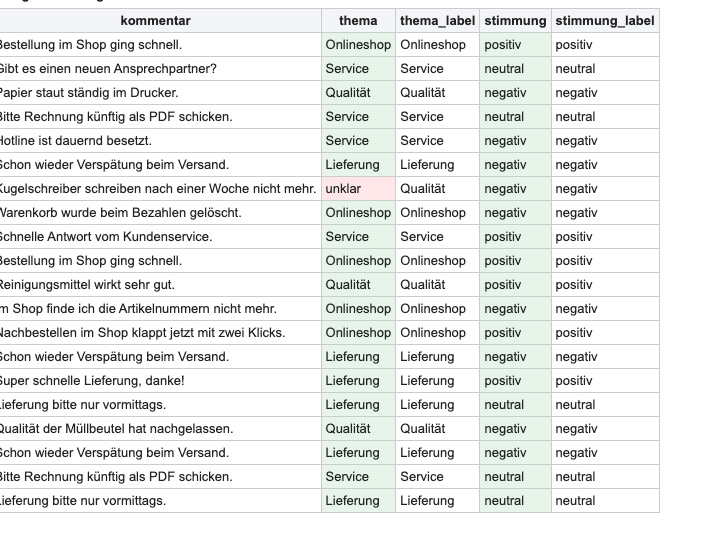
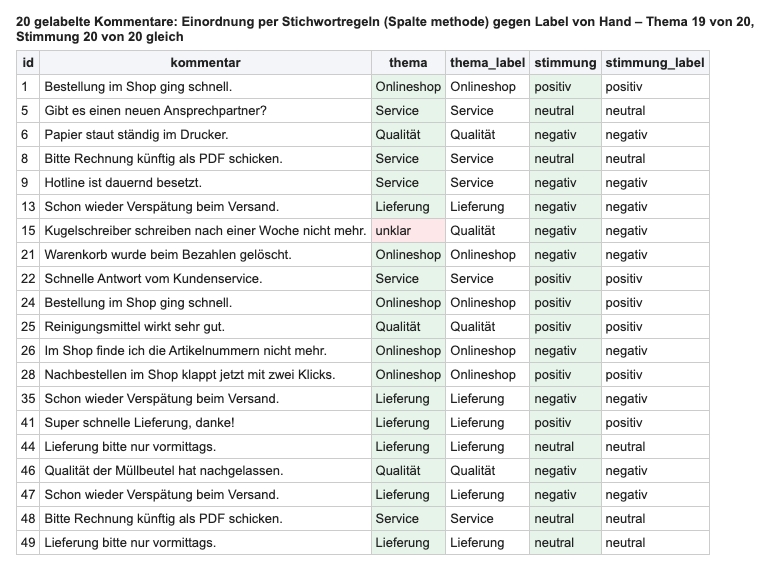
✨ KI in der Datenanalyse: Theorie an Folien angeglichen, Trefferquote-Bild neu

diff --git a/m01-ai-analysis-basics/l01-ai-landscape/l01-ai-landscape-thx.md b/m01-ai-analysis-basics/l01-ai-landscape/l01-ai-landscape-thx.md
@@ -54,14 +54,26 @@ Wenn sie im Juli jedes Jahr Alarm schlägt (Sommerloch) und den echten Fehler im
 | --- | --- | --- |
 | 1956 | Dartmouth-Workshop: der Begriff „Artificial Intelligence" wird zum Forschungsfeld | McCarthy et al., Antrag vom 31.08.1955 (jmc.stanford.edu/articles/dartmouth/dartmouth.pdf) |
 | 1959 | Arthur Samuel prägt „Machine Learning": sein Dame-Programm lernt aus Partien | Samuel, IBM Journal of Research and Development 3(3), 1959 |
+| 2008 | Wes McKinney beginnt pandas, die Tabellen-Bibliothek für Python; Ende 2009 wird sie Open Source | pandas.pydata.org/about, abgerufen am 16.11.2026 |
 | 2012 | AlexNet gewinnt den ImageNet-Wettbewerb deutlich: Durchbruch für Deep Learning | Krizhevsky, Sutskever, Hinton, NeurIPS 2012 (papers.nips.cc) |
 | 2017 | Die Transformer-Architektur erscheint, Grundlage heutiger Sprachmodelle | Vaswani et al., „Attention Is All You Need" (arxiv.org/abs/1706.03762) |
 | 30.11.2022 | OpenAI veröffentlicht ChatGPT; Sprachmodelle werden Alltagswerkzeug | openai.com/index/chatgpt |
 | 2024 → 2026 | Anteil der Unternehmen in Deutschland mit KI-Einsatz: 20 % (2024, Destatis, ab 10 Beschäftigten); 57 % (2026, Bitkom-Befragung, ab 20 Beschäftigten) | destatis.de, Pressemitteilung 444 vom 25.11.2024; bitkom.org, Presseinformation vom 14.09.2026 |
 
-Bekannte Beispiele: Absatzprognosen im Handel, Betrugserkennung bei Kartenzahlungen (Anomalien), Kundensegmente im Marketing, KI-Assistenten in Excel, Power BI und VS Code, die Formeln, Code und Kommentare vorschlagen.
+Wo es heute steht: Der Anteil der Unternehmen in Deutschland (ab 10 Beschäftigten), die KI nutzen, stieg von 11 % (2021) über 12 % (2023) und 20 % (2024) auf 26 % (2025). Von den KI-nutzenden Unternehmen setzten 2025 23 % maschinelles Lernen ein, 52 % werteten Texte aus (Text Mining). _Quelle: Statistisches Bundesamt (Destatis), Pressemitteilung Nr. 444 vom 25.11.2024 und Tabelle „Unternehmen, die künstliche Intelligenz nutzen“, Stand 24.11.2025 (destatis.de), abgerufen am 16.11.2026._
 
-Einsatz im Controlling und Reporting: Lieferdateien prüfen, Monatsberichte automatisieren, Umsatz hochrechnen, Ausreißer melden, Freitext-Feedback auszählen, Abweichungen in Worte fassen. Die beiden Unternehmenszahlen stammen aus unterschiedlichen Erhebungen und sind nicht direkt vergleichbar (Stand: 15.11.2026).
+Bekannte Beispiele: Absatzprognosen im Handel, Betrugserkennung bei Kartenzahlungen (Anomalien), Kundensegmente im Marketing, KI-Assistenten in Excel, Power BI und VS Code, die Formeln, Code und Kommentare vorschlagen, und KI-Chats mit Datei-Upload wie ChatGPT oder Claude, die Fragen zu einer Tabelle beantworten.
+
+Einsatz im Controlling und Reporting: Lieferdateien prüfen, Monatsberichte automatisieren, Umsatz hochrechnen, Ausreißer melden, Freitext-Feedback auszählen, Abweichungen in Worte fassen. Die beiden Unternehmenszahlen aus Destatis und Bitkom stammen aus unterschiedlichen Erhebungen und sind nicht direkt vergleichbar (Stand: 16.11.2026).
+
+| Rolle | Was sich mit KI ändert |
+| --- | --- |
+| Controlling | Monatsbericht auf Knopfdruck, jeden Monat dieselbe geprüfte Zahl; mehr Zeit für die Erklärung |
+| BI und Reporting | Berichte und Diagramme aus einem Skript statt Klickfolgen; jede Zahl nachrechenbar |
+| Datenanalyse | KI schreibt Prüf- und Analysecode mit; Muster wie Gruppen und Ausreißer in Minuten |
+| Marketing | alle Kundenkommentare statt einer Stichprobe; Kundengruppen für Kampagnen |
+
+Für alle Rollen gilt: Die KI arbeitet zu, der Mensch prüft und entscheidet.
 
 ## Der Ablauf einer Analyse
 

diff --git a/m05-ml-basics/l03-anomalies/l03-anomalies-thx.md b/m05-ml-basics/l03-anomalies/l03-anomalies-thx.md
@@ -103,5 +103,6 @@ Kleinere Schwelle = mehr Treffer und mehr Fehlalarme; größere Schwelle = wenig
 - Abstand in Standardabweichungen macht Tage verschiedener Regionen und Monate vergleichbar.
 - `find_anomalies(df, schwelle=3)` findet bei Nordwind 11 Tage, darunter beide dokumentierten Fälle; Schwelle 4 nur diese zwei.
 - Die Regel meldet, der Mensch entscheidet: Datenfehler korrigieren, echte Ereignisse erklären.
+- Im Bericht v2 (Lab 6.2) steckt dieselbe Regel in `find_anomalies(df, schwelle=SCHWELLE_STANDARD)` (Standard 3, je Gruppe und Monat); `auffaellige_tage(tage, monat)` zeigt nur den Berichtsmonat, die Option `--schwelle` ändert die Schwelle ohne Codeänderung.
 
 In der Übung entsteht `find_anomalies` mit Copilot und wird im Diagramm geprüft.

diff --git a/m06-forecast-report/l01-forecast/l01-forecast-thx.md b/m06-forecast-report/l01-forecast/l01-forecast-thx.md
@@ -129,5 +129,6 @@ _Quelle: eigene Auswertung, Nordwind-Daten, 15.11.2026._
 - Saison steckt im Vorjahresmonat, Trend im Trendfaktor; zusammen ergeben sie eine einfache, erklärbare Prognose.
 - Erst der Backtest zeigt, ob eine Formel taugt: 4,8 % MAPE gegen 7,7 % für die naive Messlatte.
 - Eine Prognose weiß nur, was in den Daten steht; Strukturbrüche und Datenfehler wirken direkt auf das Ergebnis.
+- Im Bericht v2 (Lab 6.2) wird daraus die Funktion `prognose(df, monat)`: dieselbe Formel für `PROGNOSE_MONATE = 3` Folgemonate, ohne Backtest; bei weniger als `MIN_MONATE_PROGNOSE = 24` Monaten Historie wird sie mit Meldung übersprungen.
 
 In der Übung entsteht `prognose_einfach` mit Copilot, danach laufen Backtest und Prognose.

diff --git a/m05-ml-basics/l02-clustering/l02-clustering-thx.md b/m05-ml-basics/l02-clustering/l02-clustering-thx.md
@@ -118,5 +118,6 @@ _Quelle: eigene Auswertung, Nordwind-Daten, 15.11.2026._
 - k-Means gruppiert Kunden um Mittelpunkte; vorher müssen die Merkmale skaliert werden.
 - Die Zahl der Segmente und ihre Namen sind fachliche Entscheidungen, keine Rechenergebnisse.
 - Bei Nordwind bringen 14 Top-Kunden gut ein Viertel des Umsatzes; 55 Kunden haben im Schnitt seit 302 Tagen nicht gekauft.
+- Im Bericht v2 (Lab 6.2) wird daraus die Funktion `segmente(df, monat)`: dieselbe Methode mit RFM bis zum Ende des Berichtsmonats, Anzahl als Einstellung `ANZAHL_SEGMENTE = 4`; die Namen bleiben eine fachliche Entscheidung, der Bericht zeigt Nummern 1–4.
 
 In der Übung entstehen die Segmente im Notebook und bekommen Namen.

diff --git a/m05-ml-basics/l01-classification/l01-classification-thx.md b/m05-ml-basics/l01-classification/l01-classification-thx.md
@@ -124,5 +124,6 @@ _Quelle: Wikimedia Commons, Chabacano, CC BY-SA 4.0 (https://commons.wikimedia.o
 - Überwachtes Lernen braucht Beispiele mit bekannter Antwort; der Ablauf ist immer Split → `fit` → `predict` → bewerten.
 - Eine Genauigkeit sagt nur etwas im Vergleich mit einer einfachen Messlatte.
 - Gemessen wird an Testdaten, die das Modell beim Lernen nicht gesehen hat.
+- Lab 5.1 ist das Lernlabor für den Ablauf: Das Wiederkauf-Modell geht nicht in `monatsbericht.py` v2; dort landen Segmente, Auffälligkeiten und Prognose (Lab 5.2, 5.3, 6.1).
 
 In der Übung läuft das Wiederkauf-Notebook mit drei Testanteilen.

diff --git a/m07-analysis-skill/l01-skill-anatomy/l01-skill-anatomy-thx.md b/m07-analysis-skill/l01-skill-anatomy/l01-skill-anatomy-thx.md
@@ -113,7 +113,7 @@ _Quelle: eigene Auswertung (Terminal-Ausgabe), Nordwind-Daten, 15.11.2026._
 
 ## Schrittweises Laden
 
-Ein Agent kennt viele Skills, lädt aber nur, was er gerade braucht:
+Ein Agent kennt viele Skills, lädt aber nur, was er gerade braucht – wie bei einem Regal mit Aktenordnern: Zuerst liest er nur die Rückenschilder (Name und Beschreibung), einen Ordner öffnet er erst, wenn das Thema passt.
 
 | Stufe | Was der Agent liest | Wann |
 | --- | --- | --- |
